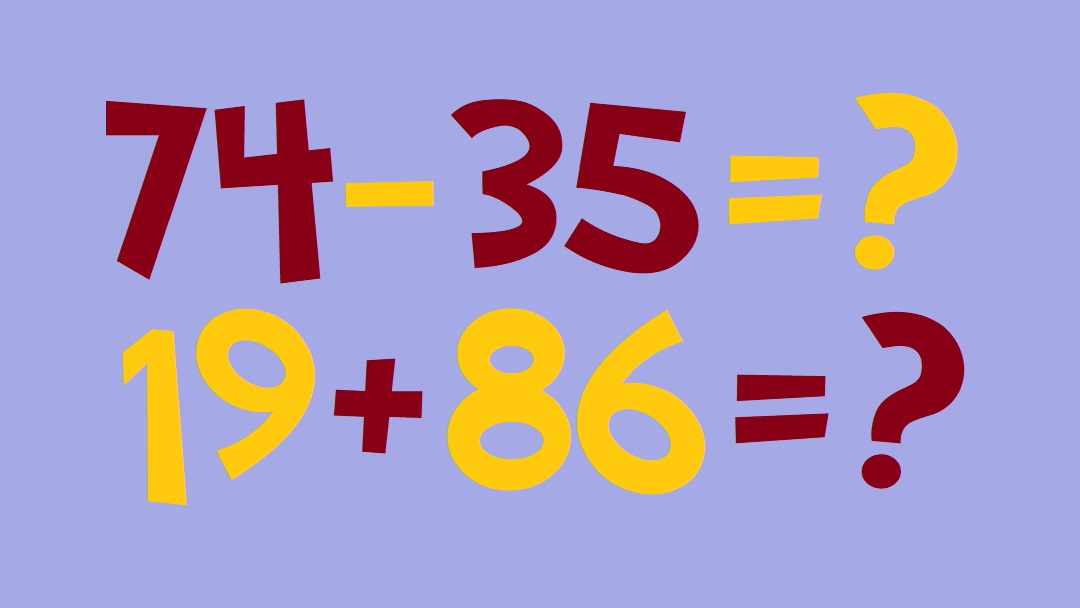
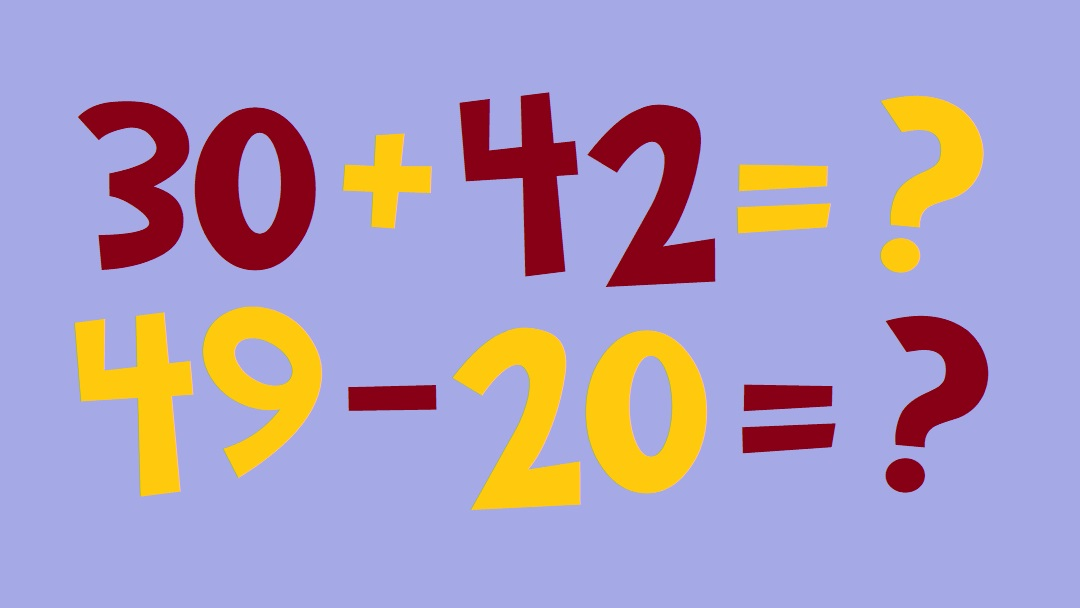
added more orange programs

Changed region(s): [[0.0611, 0.5, 0.9167, 0.8438], [0.0611, 0.125, 0.9167, 0.4688]]

diff --git a/src/components/body/orange.js b/src/components/body/orange.js
@@ -9,14 +9,15 @@ import PlayCircleFilledWhiteIcon from '@material-ui/icons/PlayCircleFilledWhite'
 import logo1 from './../../images/tasks/orange_1.jpg';
 import logo2 from './../../images/tasks/orange_2.jpg';
 import logo3 from './../../images/tasks/orange_3.jpg';
-
 import logo4 from './../../images/tasks/orange_4.jpg';
 import logo5 from './../../images/tasks/orange_5.jpg';
 import logo6 from './../../images/tasks/orange_6.jpg';
-
 import logo7 from './../../images/tasks/orange_7.jpg';
 import logo8 from './../../images/tasks/orange_8.jpg';
 import logo9 from './../../images/tasks/orange_9.jpg';
+import logo10 from './../../images/tasks/orange_10.jpg';
+import logo11 from './../../images/tasks/orange_11.jpg';
+import logo12 from './../../images/tasks/orange_12.jpg';
 
 import classes from './../../index.css';
 
@@ -34,9 +35,14 @@ const games = [
     {id: 4, logo: logo4, type: '2digits', task: '+-,0-10,0-10,10,10', amount: task_amount},
     {id: 5, logo: logo5, type: '2digits', task: '+-,1-10,1-9,10,1', amount: task_amount},
     {id: 6, logo: logo6, type: '2digits', task: '+-,1-9,11-99,1,1', amount: task_amount},
+
     {id: 7, logo: logo7, type: '2digits', task: '+-,11-99,11-99,1,1', amount: task_amount},
     {id: 8, logo: logo8, type: '2digits', task: '+-,1-99,1-99,10,10', amount: task_amount},
-    {id: 9, logo: logo9, type: 'digit_2column', task: '+-,11-99,101-999,1,1', amount: task_amount},
+    {id: 9, logo: logo9, type: '2digits', task: '+-,1-9,1-9,100,100', amount: task_amount},
+
+    {id: 10, logo: logo10, type: '2digits', task: '+-,1-9,11-99,10,1', amount: task_amount},
+    {id: 11, logo: logo11, type: '2digits', task: '+-,1-99,1-99,10,10', amount: task_amount},
+    {id: 12, logo: logo12, type: 'digit_2column', task: '+-,11-99,101-999,1,1', amount: task_amount},
 ];
 
 export default class Orange extends React.Component {

diff --git a/src/components/header/header.js b/src/components/header/header.js
@@ -36,9 +36,9 @@ export default class Header extends React.Component {
                       langSelector: false,
                       // current user information
                       lang: props.lang,
+                      belt: props.belt,
                       pass: props.passed,
                       fail: props.failed,
-                      belt: props.belt,
                       id: localStorage.getItem('user_id') ? parseInt(localStorage.getItem('user_id')) : 0,
                       name: localStorage.getItem('name') ? localStorage.getItem('name') : 'Kobe',
                       surname: localStorage.getItem('surname') ? localStorage.getItem('surname') : '',
